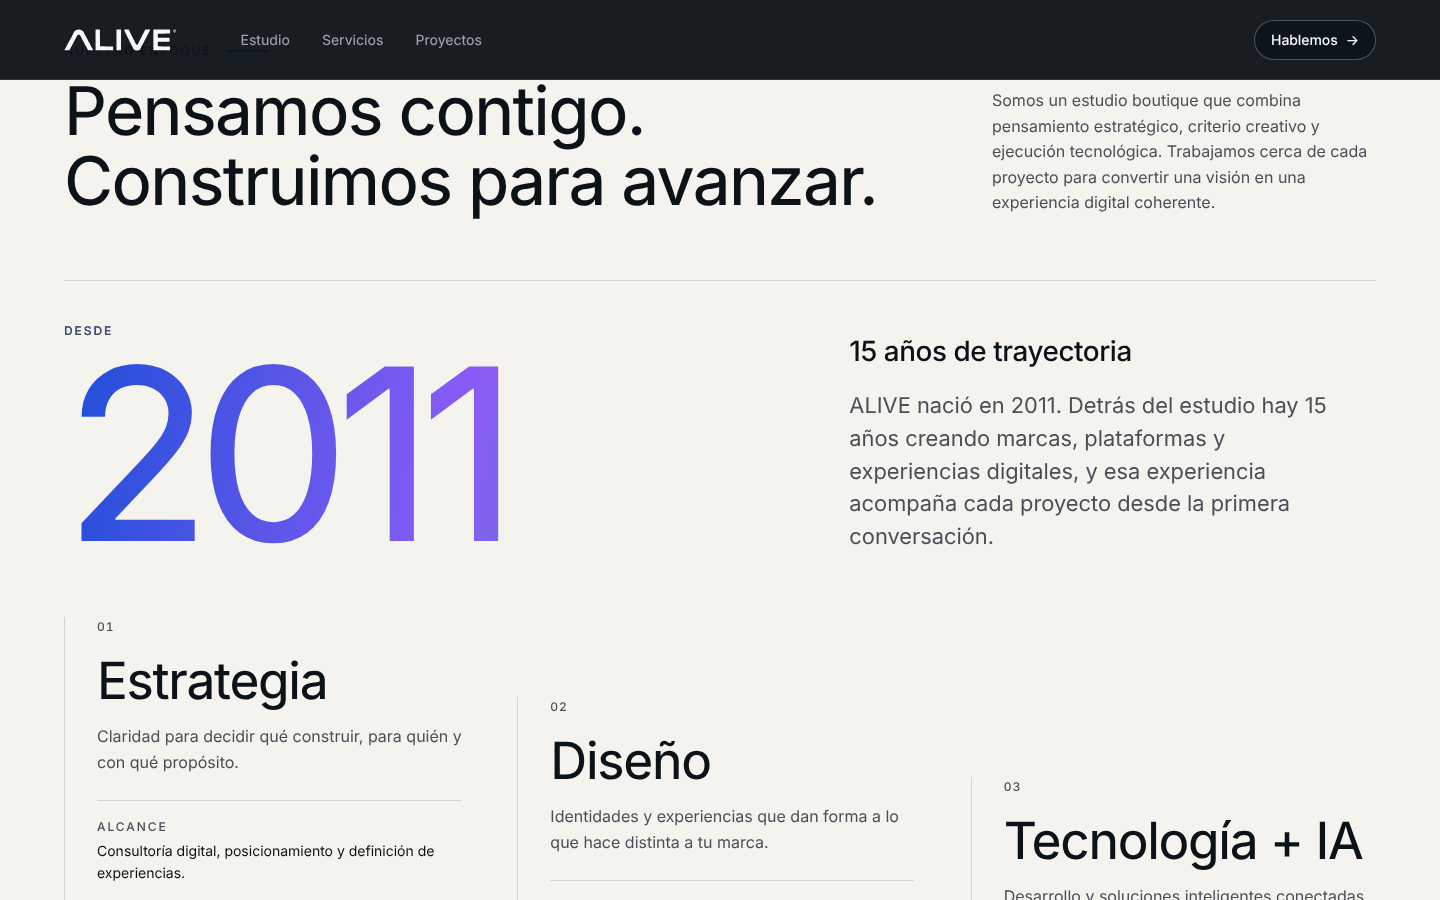
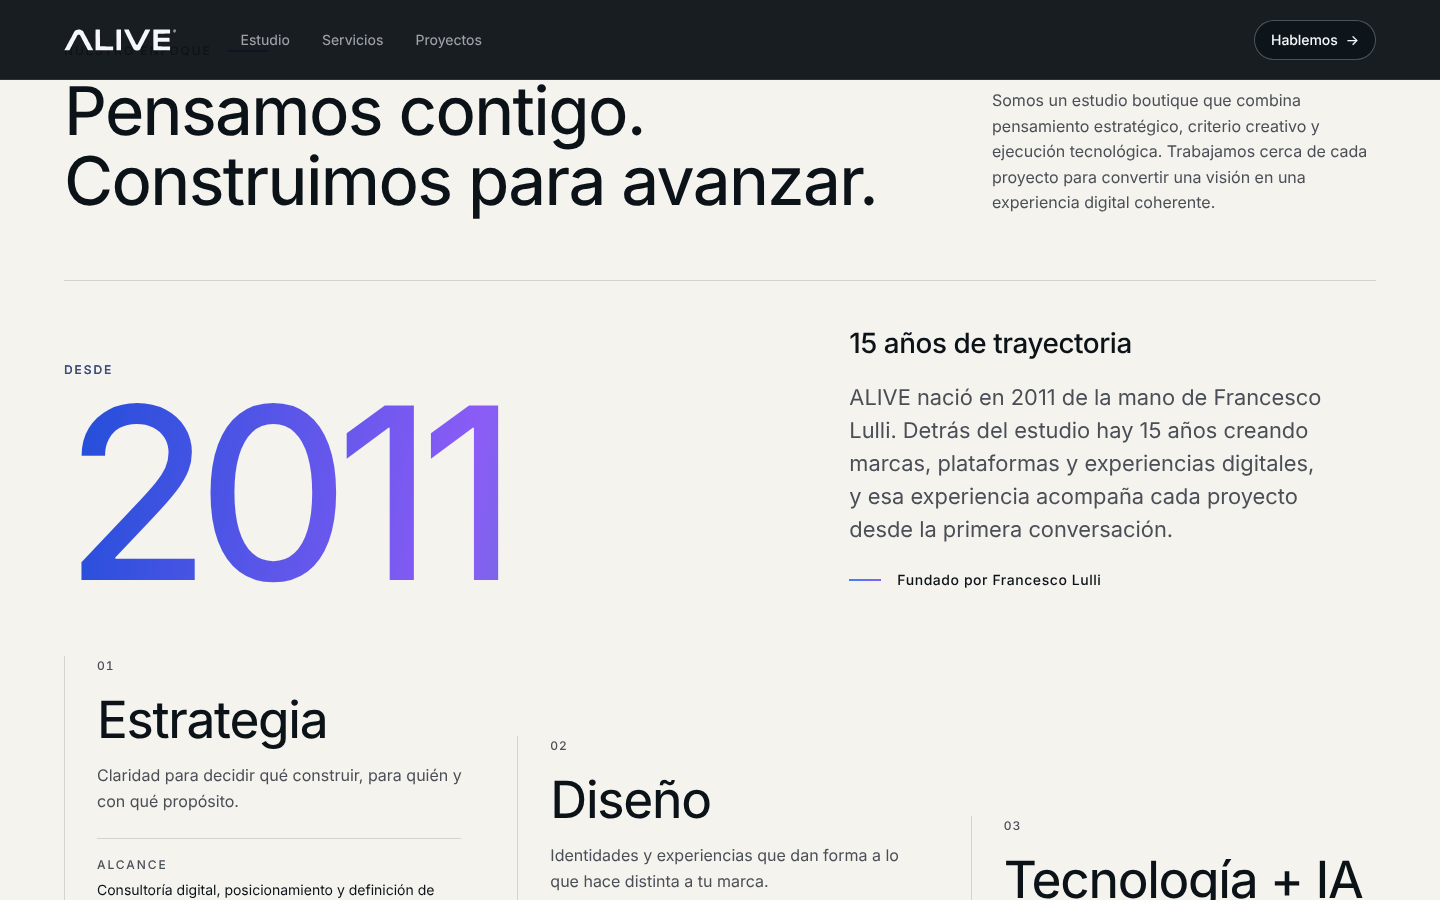
Fundado por Francesco Lulli en el bloque Desde 2011 y en JSON-LD
Claude-Session: https://claude.ai/code/session_01Fv4H8LLei8NxYoDGc9R5Vx

diff --git a/src/content/site.ts b/src/content/site.ts
@@ -15,6 +15,7 @@ export const brand = {
   name: 'ALIVE',
   signature: 'Estrategia. Creatividad. Tecnología.',
   founded: 2011,
+  founder: 'Francesco Lulli',
 }
 
 export const hero = {
@@ -103,7 +104,8 @@ export const studio = {
     year: FOUNDED,
     label: 'Desde',
     years: `${years} años de trayectoria`,
-    text: `ALIVE nació en ${FOUNDED}. Detrás del estudio hay ${years} años creando marcas, plataformas y experiencias digitales, y esa experiencia acompaña cada proyecto desde la primera conversación.`,
+    founder: `Fundado por ${brand.founder}`,
+    text: `ALIVE nació en ${FOUNDED} de la mano de ${brand.founder}. Detrás del estudio hay ${years} años creando marcas, plataformas y experiencias digitales, y esa experiencia acompaña cada proyecto desde la primera conversación.`,
   },
   text: 'Somos un estudio boutique que combina pensamiento estratégico, criterio creativo y ejecución tecnológica. Trabajamos cerca de cada proyecto para convertir una visión en una experiencia digital coherente.',
   // Propuesta comercial editable: no añadir especializaciones no confirmadas.

diff --git a/src/components/StudioServices.css b/src/components/StudioServices.css
@@ -64,6 +64,24 @@
   letter-spacing: -0.015em;
 }
 
+.studio__since-founder {
+  order: 3;
+  display: flex;
+  align-items: center;
+  gap: var(--space-2);
+  margin-top: var(--space-1);
+  font-size: var(--fs-small);
+  font-weight: 500;
+  letter-spacing: 0.04em;
+}
+
+.studio__since-founder::before {
+  content: '';
+  width: 32px;
+  height: 2px;
+  background: linear-gradient(90deg, var(--color-blue), var(--color-violet));
+}
+
 .studio__since-text {
   color: var(--color-ivory-muted);
   font-size: var(--fs-lead);

diff --git a/vite.config.ts b/vite.config.ts
@@ -17,6 +17,7 @@ function jsonLd(base: string) {
         image: `${base}/og-image.jpg`,
         slogan: 'Estrategia. Creatividad. Tecnología.',
         foundingDate: '2011',
+        founder: { '@type': 'Person', name: 'Francesco Lulli' },
         description:
           'Estudio boutique de inteligencia creativa que combina estrategia, diseño y tecnología para crear marcas, sitios web y experiencias digitales.',
         knowsAbout: [

diff --git a/src/components/StudioServices.tsx b/src/components/StudioServices.tsx
@@ -30,6 +30,7 @@ export function StudioServices() {
           </p>
           <div className="studio__since-copy">
             <p className="studio__since-years">{studio.since.years}</p>
+            <p className="studio__since-founder">{studio.since.founder}</p>
             <p className="studio__since-text">{studio.since.text}</p>
           </div>
         </div>

diff --git a/docs/SEO.md b/docs/SEO.md
@@ -8,7 +8,7 @@ Todo lo de este documento ya está aplicado en `index.html` y `vite.config.ts`, 
 - **Posicionamiento:** un estudio de inteligencia creativa que construye lo que viene.
 - **Promesa:** Ideas que cobran vida.
 - **Firma:** Estrategia. Creatividad. Tecnología.
-- **Trayectoria:** desde 2011. Detrás del estudio hay una persona con experiencia; se menciona en el hero, en el bloque «Desde 2011» y en el pie.
+- **Trayectoria:** desde 2011. Fundado por Francesco Lulli; se menciona en el hero, en el bloque «Desde 2011» y en el pie.
 - **Tono:** seguro, cercano, selectivo. Sin promesas de resultados, sin cifras, sin clientes que no estén confirmados.
 - **Términos de búsqueda que cubrimos de forma natural:** estudio creativo, estrategia digital, branding, diseño web, diseño UX/UI, desarrollo web, inteligencia artificial aplicada, automatización.
 
@@ -36,7 +36,7 @@ En redes manda la emoción (la promesa); en Google, la claridad (qué hacemos).
 ## Datos estructurados (JSON-LD)
 
 Se generan en el build cuando existe `VITE_SITE_URL`:
-- **Organization:** nombre, URL, logo, imagen, eslogan, año de fundación (2011), descripción y áreas de conocimiento (los servicios de la web).
+- **Organization:** nombre, URL, logo, imagen, eslogan, año de fundación (2011), fundador (Francesco Lulli), descripción y áreas de conocimiento (los servicios de la web).
 - **WebSite:** idioma español, publicado por la organización.
 
 No incluyen dirección, teléfono ni redes porque aún no hay datos reales. Cuando existan, se añaden `address`, `telephone`, `email` y `sameAs` (perfiles sociales) en `vite.config.ts`.
